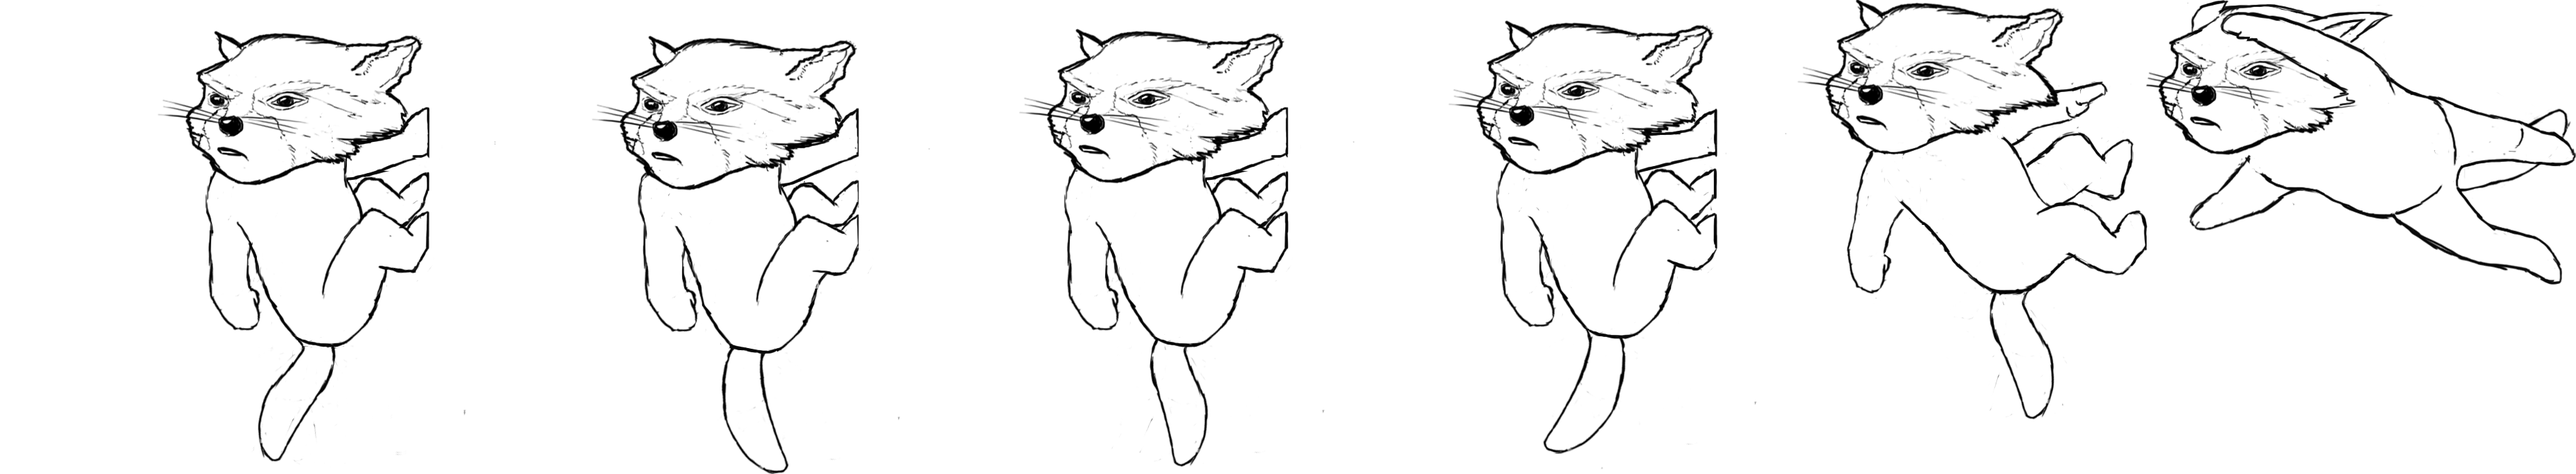
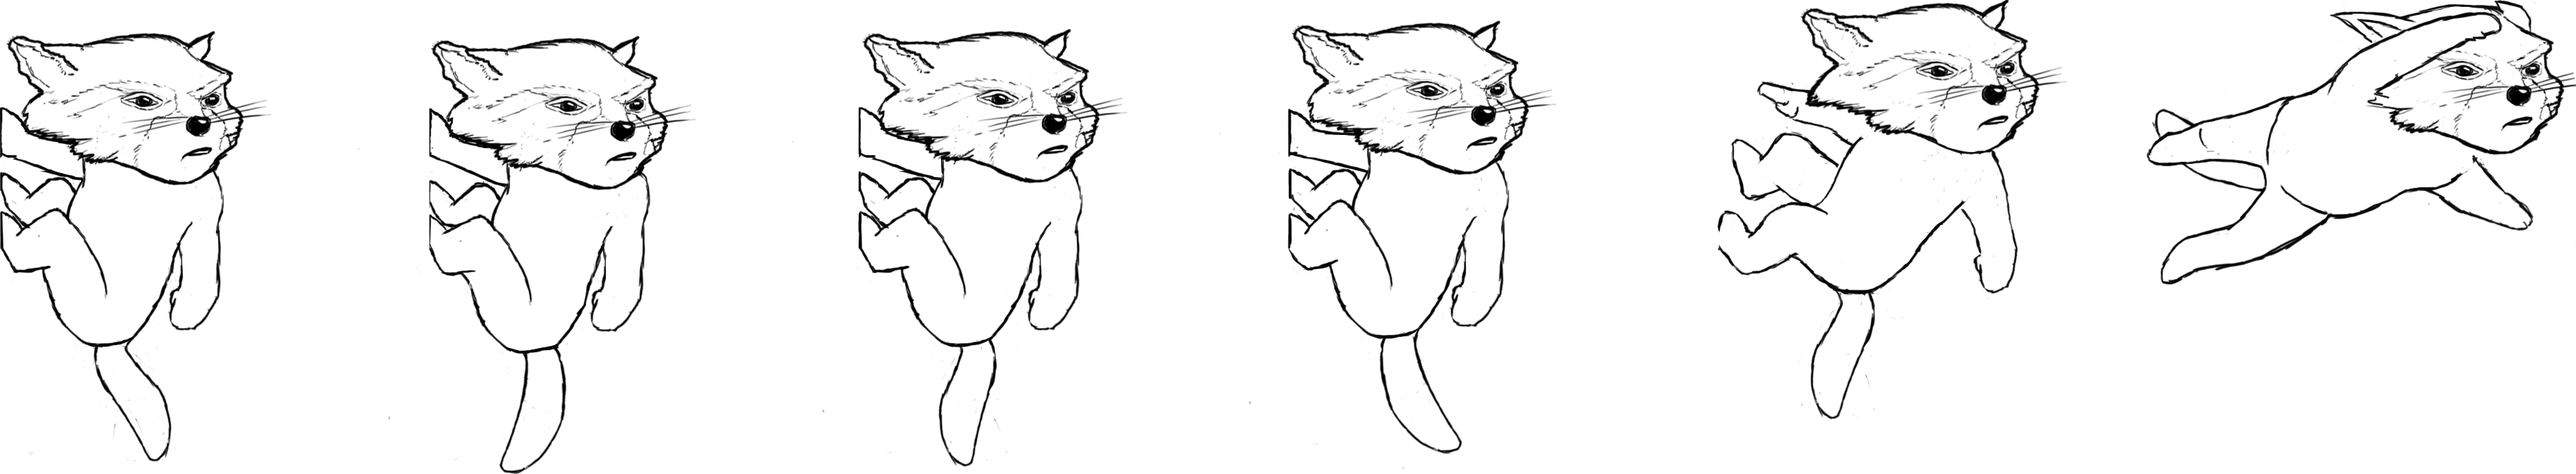
man kann schweine mit telekinese schuss töten, walljump spielt die animation jetzt bei jedem sprung nur mehr einmal ab

diff --git a/src/Game/Game.java b/src/Game/Game.java
@@ -44,14 +44,12 @@ public class Game extends BasicGame {
 	private World world;
 
 	private ArrayList<GameObject> 	staticObjects 	= new ArrayList<GameObject>();
-	private ArrayList<GameObject> 	balls 			= new ArrayList<GameObject>();
+	private ArrayList<GameObject> 	dynamicObjects 	= new ArrayList<GameObject>();
 	private ArrayList<Enemy> 		enemies			= new ArrayList<Enemy>();
 	private ArrayList<Tile>			tiles			= new ArrayList<Tile>();
 	private Player player;
 
 	private Image[] trashpile = new Image[5];
-	
-	private SpriteSheet tileImages;
 
 	private Camera cam = new Camera(0, screenHeight);
 	private Level level;
@@ -141,7 +139,7 @@ public class Game extends BasicGame {
 		}
 
 		GameObject glowingObj = chooseTelekinesisTarget();
-		for (GameObject ball : balls) {
+		for (GameObject ball : dynamicObjects) {
 			
 			Color tmpColor;
 			tmpColor = g.getColor();
@@ -335,13 +333,13 @@ public class Game extends BasicGame {
 		}
 
 		if (input.isKeyPressed(Input.KEY_X)) {
-			if (!balls.isEmpty()) {
+			if (!dynamicObjects.isEmpty()) {
 				// GameObject o = crates.get(0);
 				// o.getBody().setLinearVelocity( new Vec2(0, 14 ) );
 				// world.destroyBody( o.getBody() );
 				// crates.remove(o);
 			}
-			for (GameObject o : balls) {
+			for (GameObject o : dynamicObjects) {
 
 				float oX = o.getBody().getPosition().x;
 				float pX = player.getBody().getPosition().x;
@@ -356,10 +354,10 @@ public class Game extends BasicGame {
 		}
 		if (input.isKeyDown(Input.KEY_Y)) {
 			for(int i=0; i < 10; ++i){
-				if (!balls.isEmpty()) {
-					GameObject o = balls.get(0);
+				if (!dynamicObjects.isEmpty()) {
+					GameObject o = dynamicObjects.get(0);
 					world.destroyBody(o.getBody());
-					balls.remove(o);
+					dynamicObjects.remove(o);
 				} else {
 					break;
 				}
@@ -382,13 +380,13 @@ public class Game extends BasicGame {
 			for (int i = 0; i < 4; ++i) {
 				GameObjectCircle ball = new GameObjectCircle(world, player.getBody().getPosition().x, player.getBody().getPosition().y - size
 						* 2, size, 1f, 0.5f, 0f, "images/player.png", BodyType.DYNAMIC);
-				balls.add(ball);
+				dynamicObjects.add(ball);
 			}
 		}
 
 		if (input.isKeyDown(Input.KEY_V)) {
-			if (!balls.isEmpty()) {
-				GameObject o = balls.get(10);
+			if (!dynamicObjects.isEmpty()) {
+				GameObject o = dynamicObjects.get(10);
 				o.getBody().setTransform(new Vec2(player.getBody().getPosition().x + 2, player.getBody().getPosition().y + 1) // vec2
 																																// end
 						, 0); // transform end
@@ -457,7 +455,7 @@ public class Game extends BasicGame {
 		}		
 	}
 	public GameObject chooseTelekinesisTarget(){
-		for (GameObject object : balls) {
+		for (GameObject object : dynamicObjects) {
 			
 			float objectX = object.getBody().getPosition().x;
 			float playerX = player.getBody().getPosition().x;
@@ -480,8 +478,8 @@ public class Game extends BasicGame {
 	public ArrayList<Enemy> getEnemies() {
 		return enemies;
 	}
-	public ArrayList<GameObject> getBalls() {
-		return balls;
+	public ArrayList<GameObject> getDynamicObjects() {
+		return dynamicObjects;
 	}
 	
 	private void music() throws SlickException {

diff --git a/src/Game/MyContactListener.java b/src/Game/MyContactListener.java
@@ -8,12 +8,15 @@ import org.jbox2d.callbacks.ContactListener;
 import org.jbox2d.collision.Manifold;
 import org.jbox2d.common.Vec2;
 import org.jbox2d.dynamics.Body;
+import org.jbox2d.dynamics.Fixture;
 import org.jbox2d.dynamics.World;
 import org.jbox2d.dynamics.contacts.Contact;
 
 public class MyContactListener implements ContactListener{
 
 	private Game game;
+
+	float minKillingSpeed = 30;
 	
 	public MyContactListener(Game game) {
 		this.game = game;
@@ -25,7 +28,7 @@ public class MyContactListener implements ContactListener{
 		// player sensors
 		for( MySensor sensor : game.getPlayer().getSensorList() ){
 			
-			if (contact.getFixtureA() == sensor.getFixture()||
+			if (contact.getFixtureA() == sensor.getFixture() ||
 				contact.getFixtureB() == sensor.getFixture()
 			){
 				sensor.increaseCollidingCounter();
@@ -36,7 +39,7 @@ public class MyContactListener implements ContactListener{
 		if (	contact.getFixtureA() == game.getPlayer().getTailFixture()
 			|| 	contact.getFixtureB() == game.getPlayer().getTailFixture() ) {
 			
-			for (GameObject gameObject : game.getBalls()){
+			for (GameObject gameObject : game.getDynamicObjects()){
 				if (	gameObject.getBody().getFixtureList() == contact.getFixtureB() 
 					||	gameObject.getBody().getFixtureList() == contact.getFixtureA()){
 					
@@ -55,7 +58,6 @@ public class MyContactListener implements ContactListener{
 		} 
 		
 		// groundpounding
-
 		if(game.getPlayer().isGroundPounding() ){
 
 			if (	contact.getFixtureA() == game.getPlayer().getSensorGroundCollision().getFixture()
@@ -79,6 +81,33 @@ public class MyContactListener implements ContactListener{
 					contact.getFixtureB() == sensor.getFixture()
 				){
 					sensor.increaseCollidingCounter();
+				}
+			}
+		}
+		
+		// player + enemy contact --> die()
+		if( game.getPlayer().getFixture() == contact.getFixtureA() || game.getPlayer().getFixture() == contact.getFixtureB() ){
+		
+			for( Enemy enemy : game.getEnemies()){
+				if ( !enemy.isDead() ){
+					if (enemy.getFixture() == contact.getFixtureA() || enemy.getFixture() == contact.getFixtureB() ){
+						game.getPlayer().die();
+					}
+				}
+			}
+		}
+		
+		for( Enemy enemy : game.getEnemies()){
+			if ( !enemy.isDead() ){
+				for(GameObject dynamicObject : game.getDynamicObjects() ){
+					if (enemy.getFixture() == contact.getFixtureA() || enemy.getFixture() == contact.getFixtureB() ){
+						if (dynamicObject.getFixture() == contact.getFixtureA() || dynamicObject.getFixture() == contact.getFixtureB() ){
+							if (dynamicObject.getBody().getLinearVelocity().x > minKillingSpeed || dynamicObject.getBody().getLinearVelocity().y > minKillingSpeed ){
+								enemy.die();
+							}
+							
+						}
+					}
 				}
 			}
 		}

diff --git a/src/Game/Player.java b/src/Game/Player.java
@@ -95,9 +95,12 @@ public class Player {
 		SpriteSheet sheetRun = 		new SpriteSheet("images/runcycle.png", 735, 385);
 		SpriteSheet sheetWallJump = new SpriteSheet("images/walljump.png", 620, 685);
 		
+		Animation ani = new Animation(sheetWallJump, 	100);
+		ani.setLooping(false);
+		
 		animations.put("run", 		new Animation(sheetRun,			100));
 		animations.put("walk", 		new Animation(sheetWalk,		100));
-		animations.put("wallJump", 	new Animation(sheetWallJump, 	100));
+		animations.put("wallJump", 	ani);
 		
 		currentAnimation = animations.get("walk");
 	}
@@ -230,16 +233,20 @@ public class Player {
 	}
 	
 	public void die() {
-		System.out.println("You just did dies!");
-		this.world.setGravity( new Vec2(0,0) );
+		System.out.println("You just died, loser!");
 	}
 	
 	public void draw(Graphics g, boolean debugView){
 //		if (debugView || this.img == null) {
-			this.drawOutline(g);
+//			this.drawOutline(g);
 //		} else { 
-			this.drawImage();
+//			this.drawImage();
 //		}
+
+		// sprite testing
+		this.drawImage();
+		this.drawOutline(g);
+		
 	}
 	
 	public void drawImage(){
@@ -440,6 +447,7 @@ public class Player {
 			} else {
 
 				this.currentAnimation = animations.get("wallJump");
+				this.currentAnimation.restart();
 				
 				if(leftWallColliding()){
 					
@@ -843,5 +851,15 @@ public class Player {
 	
 	public boolean isJumpingFromWall(){
 		return this.jumpingFromWall;
+	}
+	
+	public Fixture getFixture(){
+		
+		if(running){
+			return secondFixture;
+		} else {
+			return firstFixture;
+		}
+		
 	}
 }

diff --git a/src/Game/Enemy.java b/src/Game/Enemy.java
@@ -18,7 +18,7 @@ public abstract class Enemy extends GameObjectBox {
 	protected float width;
 	protected float height;
 	
-	boolean dead = false;
+	private boolean dead = false;
 	
 	protected ArrayList<MySensor> sensorList = new ArrayList<MySensor>();
 	protected MySensor 	sensorLeft;
@@ -172,6 +172,10 @@ public abstract class Enemy extends GameObjectBox {
 		float x = (game.getPlayer().movesLeft()) ? -force : force;
 		this.body.applyLinearImpulse(new Vec2 ( x, force), this.body.getWorldCenter());
 		this.dead=true;
+	}
+	
+	public boolean isDead() {
+		return dead;
 	}
 	
 	public abstract void update();

diff --git a/src/Game/EnemyPrimitive.java b/src/Game/EnemyPrimitive.java
@@ -23,7 +23,7 @@ public class EnemyPrimitive extends Enemy{
 
 	@Override
 	public void update() {
-		if(!dead){ 
+		if ( !isDead() ){ 
 		
 			if(this.isOnGround() && !idle){
 				this.body.setLinearVelocity(new Vec2(speed, this.body.getLinearVelocity().y) );

diff --git a/src/Game/EnemyStupidFollower.java b/src/Game/EnemyStupidFollower.java
@@ -19,7 +19,7 @@ public class EnemyStupidFollower extends Enemy {
 	
 	public void update(){
 		
-		if(!dead){ 
+		if (!isDead() ){ 
 			Player player = this.game.getPlayer();
 			float speed = 5;
 			float x = speed;
